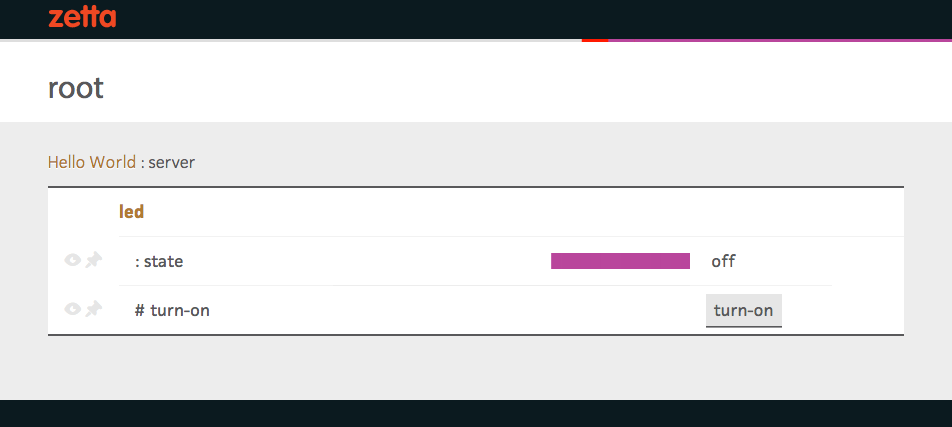
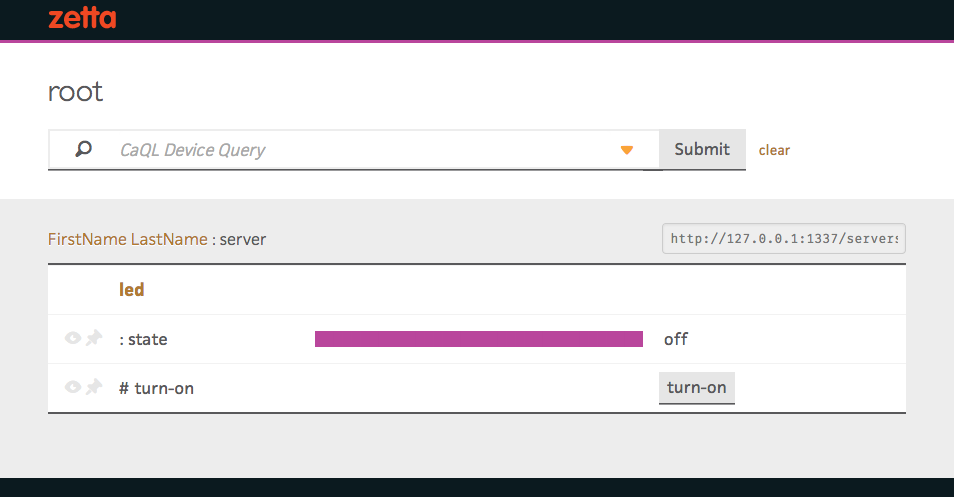
finished step 3

diff --git a/projects/_posts/2014-10-13-Hello-World.md b/projects/_posts/2014-10-13-Hello-World.md
@@ -11,9 +11,9 @@ repo: http://github.com/zettajs/zetta-hello-world
 # Directions
 
 1. [Setup Zetta on the PC](#step-1-setup-zetta-on-the-pc)
-2. [Blink the \[mock\] LED](#step-2-blink-the-mock-led)
+2. [Blink the LED](#step-2-blink-the-led)
+3. [Link to the Cloud](#step-3-link-to-the-cloud)
 3. [Stream a Sine Wave](#step-3-add-the-sine-wave-generator)
-4. [Link to a Remote Zetta Instance](#step-4-link-to-a-remote-zetta-instance)
 5. [Coordinate Behavior](#step-5-coordinate-behavior)
 {:.steps}
 
@@ -49,7 +49,7 @@ This project requires a PC with an Internet connection and [Node.js](http://node
    npm init
    ```
 
-   > **info**{:.icon} Press `<ENTER>` multiple times to accept the `npm init` defaults.
+   > **action**{:.icon} Press `<ENTER>` multiple times to accept the `npm init` defaults.
 
 ## Install Zetta
 
@@ -58,7 +58,6 @@ This project requires a PC with an Internet connection and [Node.js](http://node
    ```markdown
    npm install zetta --save
    ```
-
 
 ## Write Zetta Server Code
 
@@ -72,7 +71,7 @@ This project requires a PC with an Internet connection and [Node.js](http://node
 
    > **info**{:.icon} Consider replacing `FirstName` and `LastName` with your first and last name.
 
-   ```javascript
+   ```js
    var zetta = require('zetta');
 
    zetta()
@@ -118,70 +117,133 @@ This project requires a PC with an Internet connection and [Node.js](http://node
 
    > **info**{:.icon} As we `use` devices in `server.js` they will appear in the web API. For the following steps we'll access the API via the [Zetta Browser](/guides/2014/10/18/Zetta-Browser.html).
 
-# Step #2: Blink the \[mock\] LED
+# Step #2: Blink the LED
 
-We're going to add a mock LED to our project, then blink it. This will show us how to interact with devices in Zetta without actually needing physical devices.
+## Write the LED Code
 
-## Retrieving The Driver
+1. Install the mock LED driver from `npm`.
 
-1. Install the driver from `npm`:
+   ```bash
+   npm install zetta-led-mock --save
+   ```
 
-```md
-npm install zetta-mock-led --save
-```
+   > **info**{:.icon} Zetta driver names follow the pattern `zetta-[device name]-platform`. The Hello World project uses mock devices.
 
-## Setup The Zetta Server
+1. In the `server.js` file, write code to `require` and `use` the mock `LED`.
 
-1. Open `server.js` in your code editor of choice
-2. Add the following code to create your Zetta server node:
+   Add **line 2**:
 
-```javascript
-var zetta = require('zetta');
-var LED = require('zetta-mock-led');
+   ```javascript
+   var LED = require('zetta-led-mock');
+   ```
 
-zetta()
-  .use(LED)
-  .listen(1337, function(){
-    console.log('Zetta is running at http://127.0.0.1:1337');
-  });
-```
+   Add **line 6**:
 
-## Run the server
+   ```javascript
+   .use(LED)
+   ```
 
-1. Run this code in your command line:
-  ```
-  node server.js
-  ```
+1. Ensure `server.js` looks like the code below.
 
-Zetta will start up and locate our software LED.
-2. Confirm that your console shows something like this:
+   ```js
+   var zetta = require('zetta');
+   var LED = require('zetta-led-mock');
 
-![Example Log Output](/images/projects/hello_world/log_led.png){:.zoom}
+   zetta()
+     .name('FirstName LastName')
+     .use(LED)
+     .listen(1337, function(){
+        console.log('Zetta is running at http://127.0.0.1:1337');
+   });
+   ```
 
-The log takes the form of:
+1. Stop and restart the Zetta server.
 
-```bash
-TIMESTAMP [scout] Device (led) SOME-GUID was provisioned from registry
-Zetta is running at http://127.0.0.1:1337
-```
-Where:
+   ```bash
+   press <CTRL=C>
+   node server.js
+   ```
 
-* TIMESTAMP will be the time the log was generated
-* SOME-GUID will be a 32 digit globally unique id.
+1. When Zetta discovers the mock LED, it will log a message about the device.
 
-## Blink [mock] LED in the Zetta Browser
+   ```bash
+   {timestamp} [scout] Device (led) {id} was discovered
+   ```
+   {:.language-bash-noln}
 
-1. Open the Zetta Browser:
-[http://browser.zettajs.io/#/overview?url=http://127.0.0.1:1337](http://browser.zettajs.io/#/overview?url=http://127.0.0.1:1337)
-![Zetta Browser with LED](/images/projects/hello_world/browser_led_off.png){:.zoom}
+## Blink the LED from the PC
 
-2. Ensure your **LED** Device is listed
-3. Click the `turn-on` button
-  You should see the LED state change from `off` to `on`
-  ![Zetta Browser with LED On](/images/projects/hello_world/browser_led_on_callout.png){:.zoom}
+1. Open the Zetta Browser and point it to the **PC server**:
 
+   [http://browser.zettajs.io/#/overview?url=http://127.0.0.1:1337](http://browser.zettajs.io/#/overview?url=http://127.0.0.1:1337)
 
-# Step #3: Stream a Sine Wave
+1. Ensure your **LED** is listed.
+
+   ![Zetta Browser with LED](/images/projects/hello_world/browser_led_off.png){:.zoom}
+
+1. Click the `turn-on` button and ensure the LED state changed from `off` to `on`.
+
+1. Click the `turn-off` button and ensure the LED state changed from `on` to `off`.
+
+# Step #3: Link to the Cloud
+
+At this point, your LED API is only available locally. Let's make the LED API available from the cloud.
+
+## Write the Link Code
+
+1. In the `server.js` file, write code to `link` your Zetta server on the PC to a Zetta server running in the cloud.
+
+   Add **line 7**:
+
+   ```javascript
+   .link('http://hello-zetta.herokuapp.com/')
+   ```
+1. Ensure `server.js` looks like code below.
+
+   ```js
+   var zetta = require('zetta');
+   var LED = require('zetta-led-mock');
+
+   zetta()
+   .name('FirstName LastName')
+   .use(LED)
+   .link('http://hello-zetta.herokuapp.com/')
+   .listen(1337, function(){
+     console.log('Zetta is running at http://127.0.0.1:1337');
+   });
+   ```
+
+1. Stop and restart the Zetta server.
+
+   ```bash
+   press <CTRL=C>
+   node server.js
+   ```
+
+1. Ensure the peer connection to the cloud is established and the console log includes notifications that  the peer was established.
+
+   ```bash
+   {timestamp} [peer-client] WebSocket to peer established (ws://hello-zetta.herokuapp.com/peers/FirstName LastName)
+   {timestamp} [peer-client] Peer connection established (ws://hello-zetta.herokuapp.com/peers/FirstName LastName)
+   ```
+   {:.language-bash-noln}
+
+   > **info**{:.icon} By `link`ing the Zetta server on the PC to a Zetta server running in the cloud, you can access your devices via a web API from anywhere in the world.
+
+## Blink the LED from the Cloud
+
+1. Open the Zetta Browser. Point it to the Zetta **cloud server**.
+   [http://browser.zettajs.io/#/overview?url=http:%2F%2Fhello-zetta.herokuapp.com](http://browser.zettajs.io/#/overview?url=http:%2F%2Fhello-zetta.herokuapp.com)
+
+1. Ensure your **LED** is listed.
+
+1. Click the `turn-on` button for the LED.
+
+1. Ensure the LED state changed in the Zetta Browser visualization.
+
+> **world**{:.icon} Now anyone in the world can control the mock LED on your PC. Try it. Copy the cloud URL and send it to friends so they can control your LEDs from afar: [http://browser.zettajs.io/#/overview?url=http:%2F%2Fhello-zetta.herokuapp.com](http://browser.zettajs.io/#/overview?url=http:%2F%2Fhello-zetta.herokuapp.com).
+
+# Step #4: Stream a Sine Wave
 
 We'll add a Sine Wave Generator as a stand-in for a sensor stream.
 
@@ -201,7 +263,7 @@ We'll add a Sine Wave Generator as a stand-in for a sensor stream.
 
 ```javascript
 var zetta = require('zetta');
-var LED = require('zetta-mock-led');
+var LED = require('zetta-led-mock');
 var Sine = require('zetta-sine-wave');
 
 zetta()
@@ -235,57 +297,6 @@ zetta()
 3. Now click on the device name `Sine Wave` in the Zetta browser to get a more detailed view of the device.
 4. It should display a smooth sine curve!
   ![Sine Wave Detail Page](/images/projects/hello_world/browser_sine_show.png){:.zoom}
-
-# Step #4: Link to a Remote Zetta Instance
-
-Next we'll link our Zetta instance to the cloud. This creates a connection to the open internet and allows us to make API calls to our laptop. To create a true system in the Internet of Things we'll need linking that allows access across the internet.
-
-## Visit a Hosted Zetta Instance
-
-We have an instance of Zetta running on **heroku** for you to play with at [http://hello-zetta.herokuapp.com](http://hello-zetta.herokuapp.com).
-
-1. Visit the remote Zetta instance in the [Zetta Browser](http://browser.zettajs.io/#/overview?url=http:%2F%2Fhello-zetta.herokuapp.com%2F).
-2. Take note of what you see here - this is the *before* state
-
-> **question**{:.icon} Want to setup your own hosted node? Read our [Setting up Zetta in the Cloud](/guides/zetta-in-the-cloud.html) guide.
-
-## Add Link Code
-
-1. Open `server.js`
-2. Link our local Zetta instance to one in the cloud by including `.link(http://hello-zetta.herokuapp.com)` in the Zetta init chain
-3. Confirm that your `server.js` file looks like the following:
-
-```javascript
-var zetta = require('zetta');
-var LED = require('zetta-mock-led');
-var Sine = require('zetta-sine-wave');
-
-zetta()
-  .use(LED)
-  .use(Sine)
-  .link('http://hello-zetta.herokuapp.com/')
-  .listen(1337, function(){
-    console.log('Zetta is running at http://beaglebone.local:1337');
-  });
-
-```
-
-> Make sure you've saved changes to `server.js`
-
-## Revisit the Hosted Instance
-
-1. Rerun your server by typing `node server.js` in your command line
-2. Go back to the [Zetta Browser](http://browser.zettajs.io/#/overview?url=http:%2F%2Fhello-zetta.herokuapp.com%2F)
-  * You can just reload the page if it's still open.
-3. You should now be able to see your local server listed as a `peer`, with your local devices available for interaction. Examples:
-  * **Before Linking:**
-![Browser Showing Local Server](/images/projects/hello_world/browser_local_callout.png){:.zoom}
-  * **After Linking:**
-![Browser Showing Remote Peer](/images/projects/hello_world/browser_remote_callout.png){:.zoom}
-
-4. Things you can try now that your local Zetta API is available over the web:
-  * Access the Zetta browser on a mobile device with it's wifi turned off to prove your local devices are visible over the web
-  * Ask a friend to load the browser from a different location and watch as they trigger your local device transitions
 
 # Step #5: Coordinate Behavior
 
@@ -347,7 +358,7 @@ After you're done writing your app, you need to make sure it's included in your 
 
 ```javascript
 var zetta = require('zetta');
-var LED = require('zetta-mock-led');
+var LED = require('zetta-led-mock');
 var Sine = require('zetta-sine-wave');
 
 var app = require('./apps/app');
@@ -358,7 +369,7 @@ zetta()
   .use(app)
   .link('http://hello-zetta.herokuapp.com/')
   .listen(1337, function(){
-    console.log('Zetta is running at http://beaglebone.local:1337');
+    console.log('Zetta is running at http://127.0.0.1:1337');
   });
 
 ```

diff --git a/projects/_posts/2014-09-18-IoT-Security-System.md b/projects/_posts/2014-09-18-IoT-Security-System.md
@@ -211,6 +211,8 @@ The goal for this project is to create a simple home security system by assembli
 
 # Step #3: Link to the Cloud
 
+At this point, your LED API is only available locally. Let's make the LED API available from the cloud.
+
 1. In the Cloud9 IDE console, open the `server.js` file. Write code to `link` your Zetta server on the BeagleBone to a Zetta server running in the cloud.
 
    Add **line 7**:
